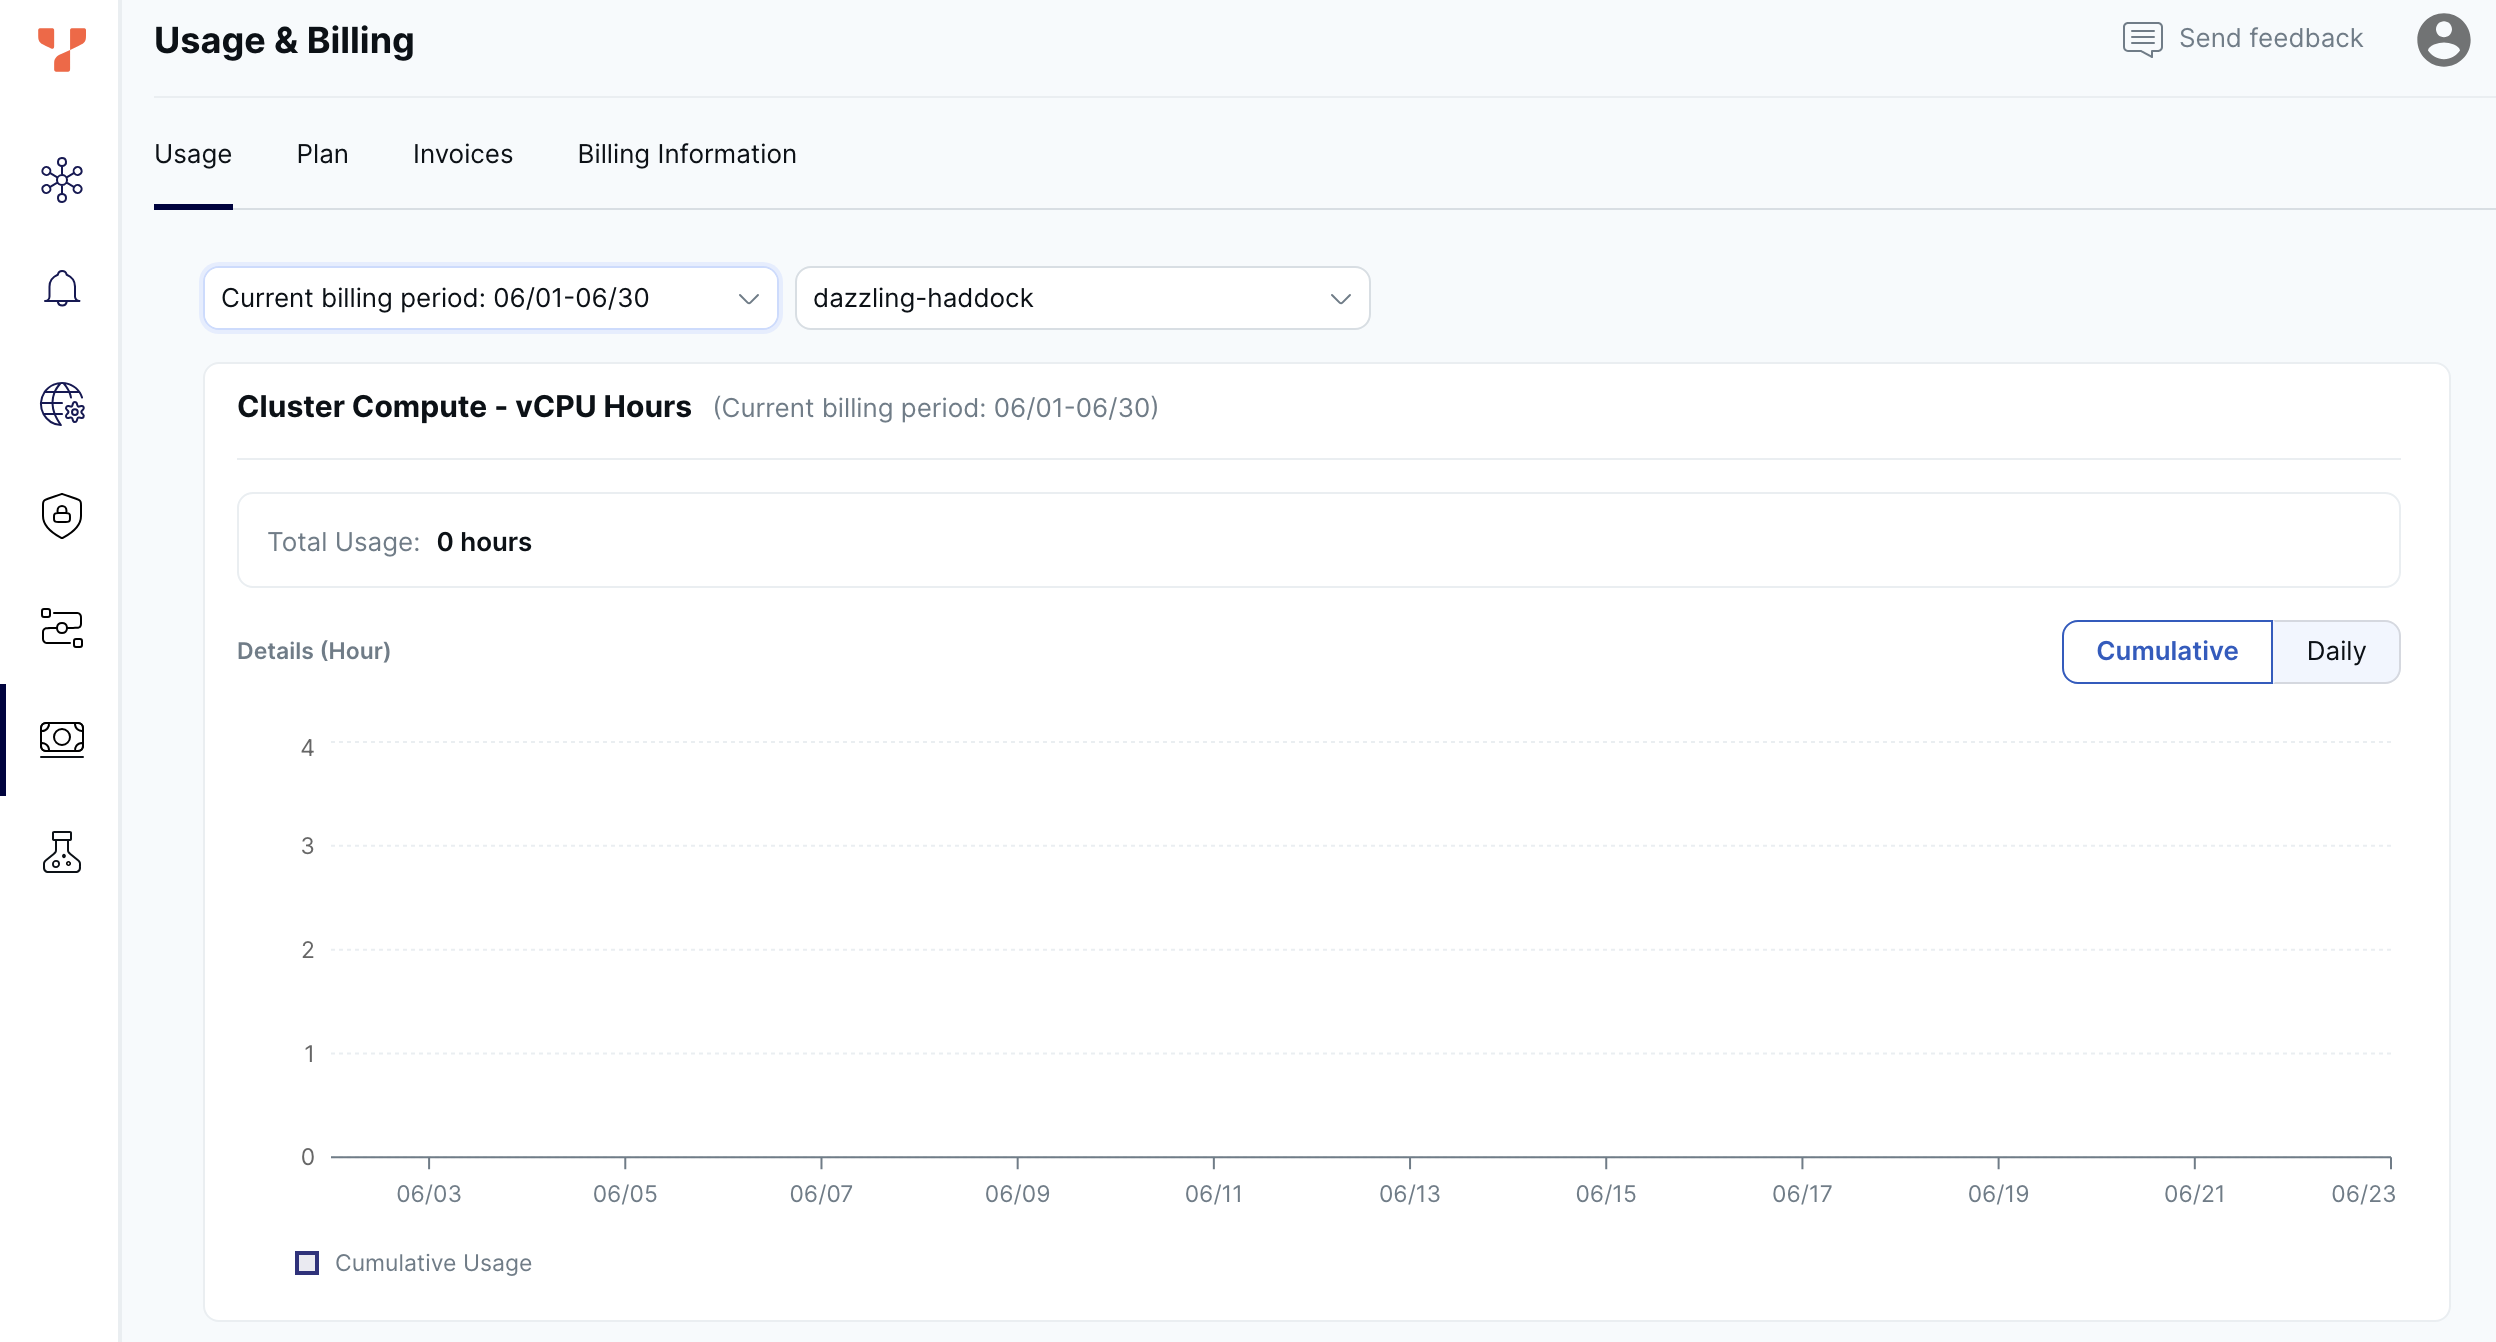
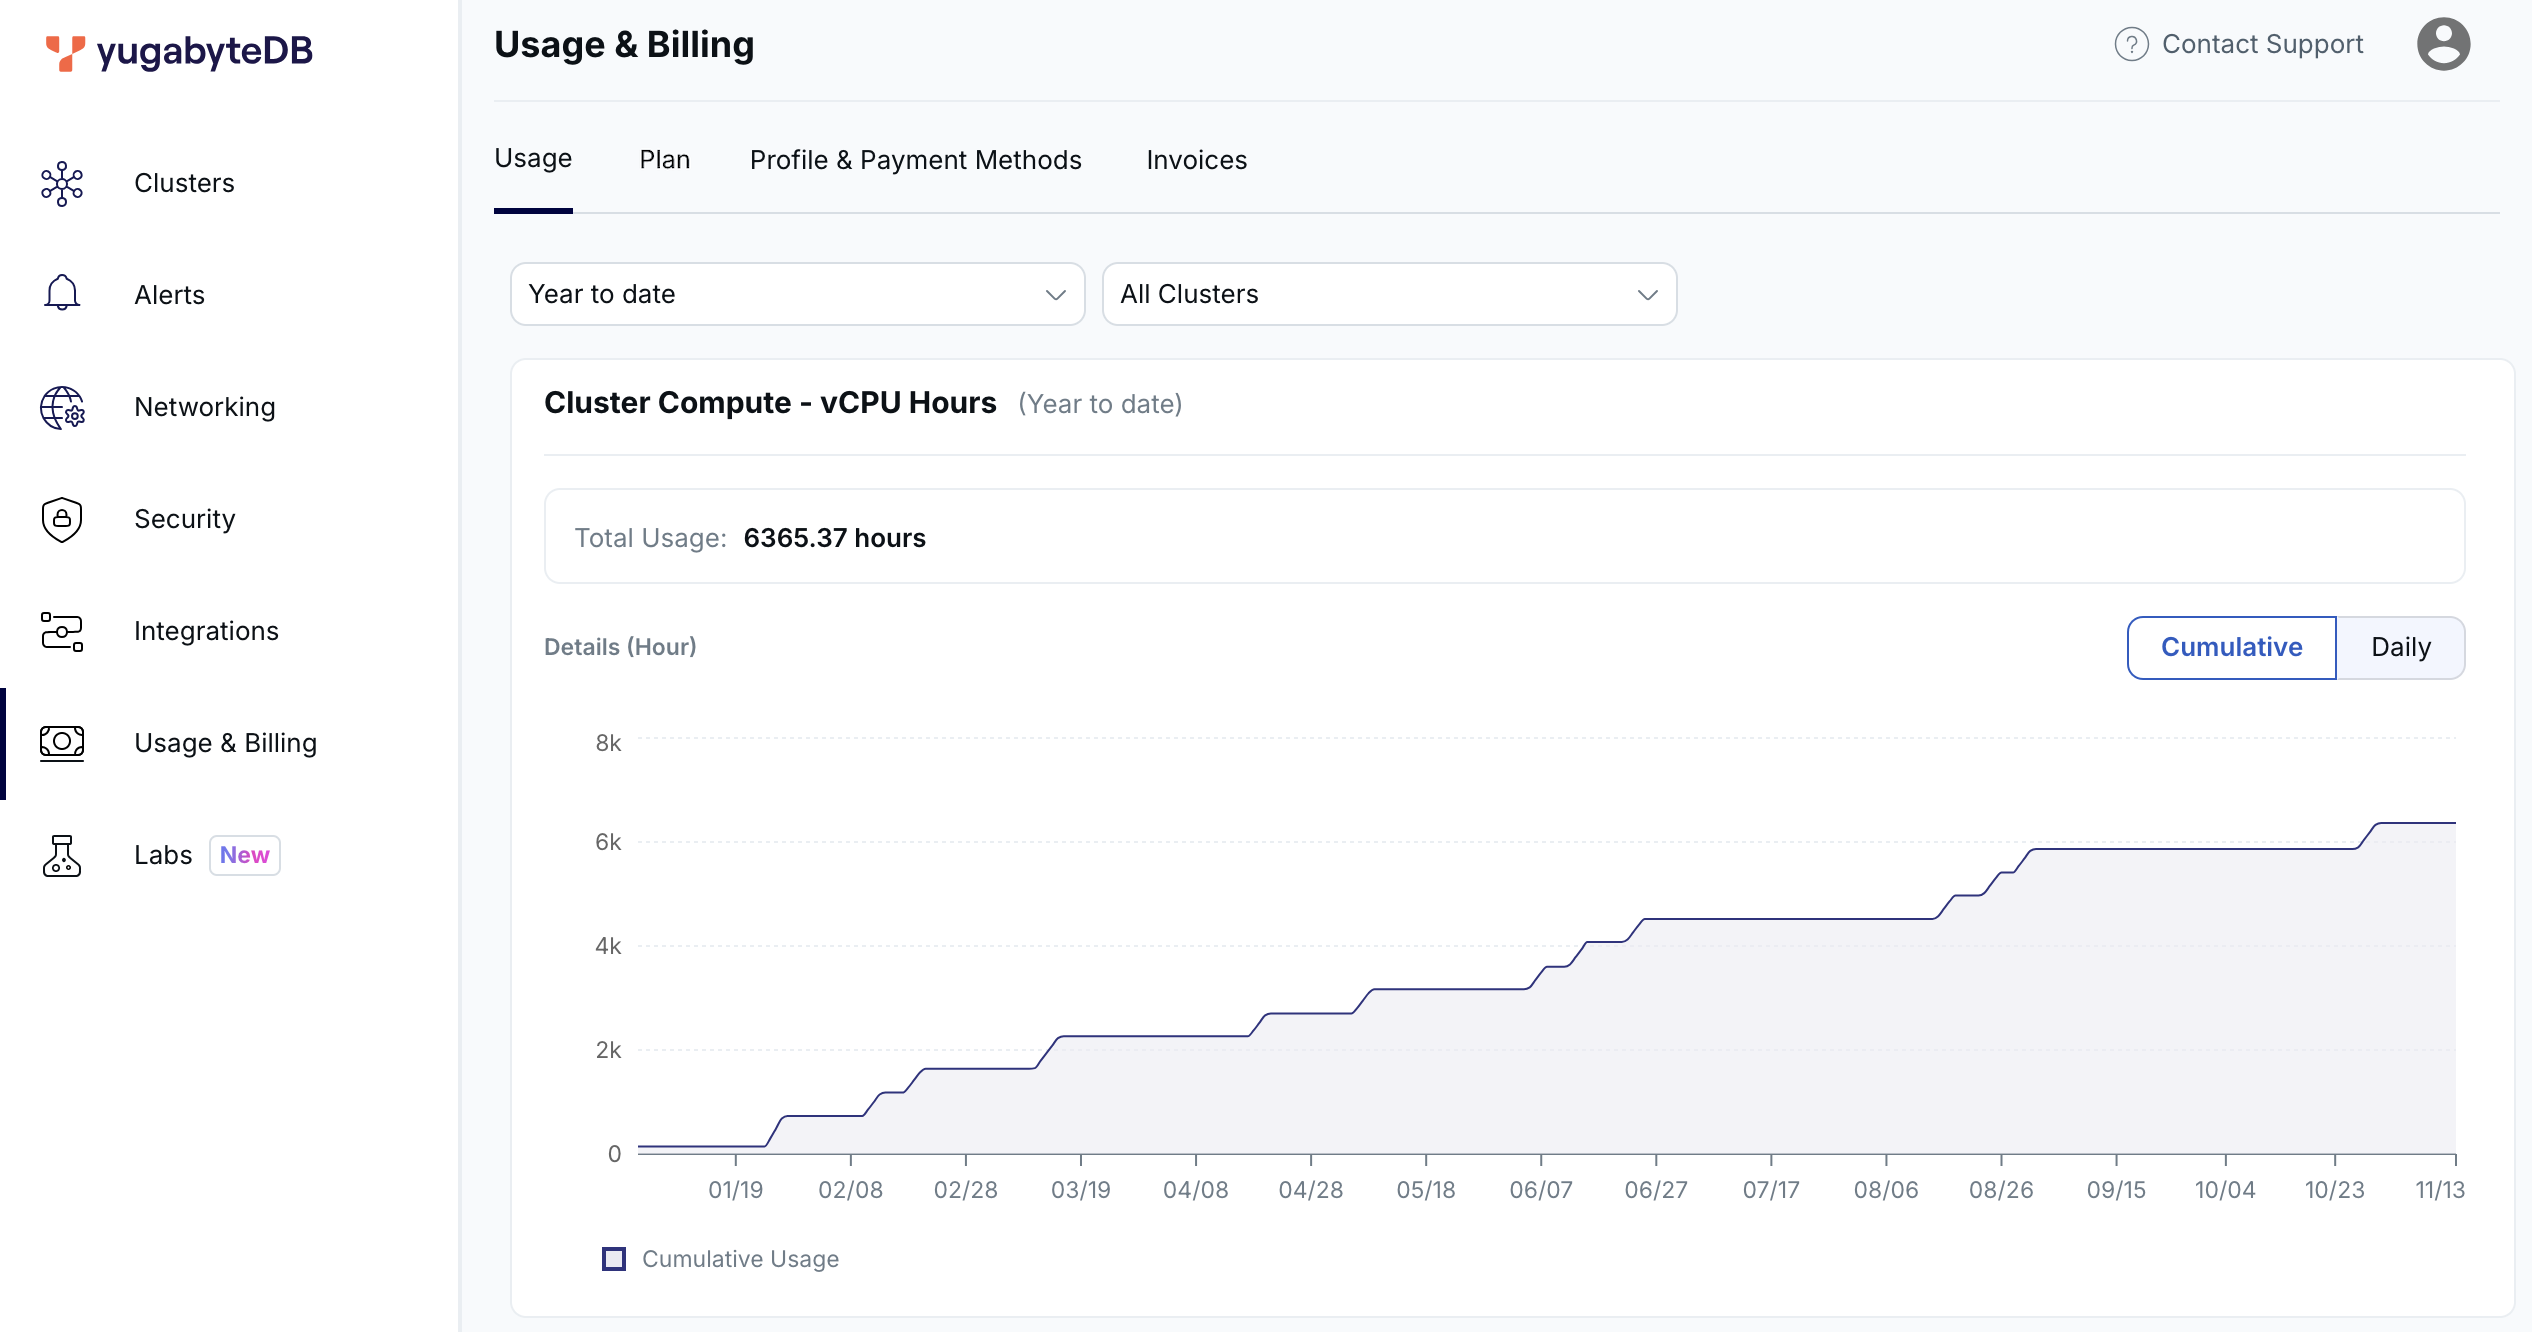
[doc][ybm][DOC-489] Changes to billing (#24337)
* Changes to billing

* review comment

* minor edits

* screenshot

* screenshot

diff --git a/docs/content/preview/yugabyte-cloud/cloud-admin/cloud-billing-profile.md b/docs/content/preview/yugabyte-cloud/cloud-admin/cloud-billing-profile.md
@@ -11,7 +11,7 @@ menu:
 type: docs
 ---
 
-Review your usage and charges, manage your plan, and manage your billing information using the **Usage & Billing** page.
+Review your usage and charges, manage your plan, and manage your billing information on the **Usage & Billing** page.
 
 Yugabyte bills for its services as follows:
 
@@ -25,23 +25,59 @@ For information on YugabyteDB Aeon plans and add-ons, refer to [YugabyteDB Prici
 
 ![Usage & Billing tab](/images/yb-cloud/cloud-admin-billing.png)
 
-The **Usage & Billing** page has the following tabs: **Usage**, **Plan**, **Invoices**, and **Billing Information**.
+The **Usage & Billing** page has the following tabs: **Usage**, **Plan**, **Profile & Payment Methods**, and **Invoices**.
 
 ## Usage
 
-Use this section to review your usage by cluster over time. You can view cumulative and daily usage of the following:
+Use this section to review your usage, per billing period, by cluster, over time. You can view cumulative and daily usage of the following:
 
-- cluster compute (vCPU hours)
-- disk storage
-- disk IOPS
-- cloud backup storage
-- data transfer
+- Cluster compute (vCPU hours)
+- Disk storage
+- Disk IOPS
+- Cloud backup storage
+- Data transfer
 
 ## Plan
 
-Use this section to subscribe to a plan, or review your plan details, including any add-ons.
+Use this section to subscribe to a plan, manage an existing plan (including adding add-ons), and review plan details.
 
-To make changes to your plan, contact {{% support-cloud %}}.
+To make changes to your plan, click **Manage Plan** or **Add to Plan**.
+
+You can subscribe to the Standard or Professional plan, upgrade a plan from Standard to Professional, or add add-ons. For other changes, contact {{% support-cloud %}}.
+
+## Profile & Payment Methods
+
+Use this section to manage your contact information and payment method. You can pay using a credit card, or other payment methods such as debit, ACH, and invoicing.
+
+Credit cards are self service. <!--For other payment methods, create your billing profile and set the **Billing Options** to **Other**; after you create your profile, contact {{% support-cloud %}} to set up payment.-->
+
+If you want to switch from paying by credit card to another method, contact {{% support-cloud %}}.
+
+### Add or edit your Billing Profile
+
+To add or change your billing profile:
+
+1. On the **Usage & Billing** page, select **Profile & Payment Methods** and click **Edit Billing Profile** to display the **Edit Billing Profile** sheet. If you haven't yet created a billing profile, click **Create Billing Profile**.
+1. Edit your contact information.
+1. If you are creating your billing profile, enter your credit card details. <!--For other payment methods, set the **Billing Options** to **Other**. You can only set the **Billing Options** if you are creating your profile.-->
+1. Click **Save**.
+
+### Manage credit cards
+
+To add a credit card:
+
+1. On the **Usage & Billing** page, select **Profile & Payment Methods** and click **Add Card** to display the **Add Credit Card** dialog.
+1. Enter your credit card details.
+1. To use the card as the default for payment, choose **Set as default credit card**.
+1. Click **Save**.
+
+To delete a card, click the **Delete** icon, then click **Confirm**. You cannot delete the default card.
+
+To change the default for payment, in the Card list, select the **Default Card** option for the card.
+
+### View credits and discounts
+
+The **Credits and Discounts** section displays any credits applied to your account, including the end date, days left, amount used, and amount remaining. Credits are automatically applied to the next invoice.
 
 ## Invoices
 
@@ -49,27 +85,24 @@ Your invoice is generated at the end of each month. The amount is charged automa
 
 **Invoices** lists your active and past invoices, along with a running total of usage for the current billing period. To review a specific invoice, select it in **Invoice History**.
 
-### Active Invoice
+### Active Invoice Summary
 
-Shows the billing details for the current billing cycle, including:
+Shows a summary for the current billing cycle, including:
 
 - Running total - running total of the amount you owe in the current billing period; Yugabyte updates this once a day.
-- Billing option - your billing plan (pay-as-you-go or subscription).
 - Billing period - the start and end date of the current billing period. Your first billing period starts the day you created your billing profile and ends on the last day of the month; subsequent periods start on the first day of the month and end on the last.
 - Previous invoice - the amount of the previous invoice.
-- Last billed on - the date of the previous invoice.
-- This time last month - the amount owing on the same day in the previous billing period (for example, if the current day is the 13th, this displays the amount that was owed on the 13th of last month).
 
-Click **Invoice Details** to view the invoice [Summary](#invoice-summary) for the active invoice.
+Click **Invoice Details** to view the [Summary](#invoice-summary) for the active invoice.
 
 ### Usage Breakdown
 
 Shows a breakdown of costs for the current billing cycle. YugabyteDB Aeon billing is based on your actual usage across the following dimensions:
 
-- vCPU Minutes
-- Disk Storage
 - Backup Storage
 - Data Transfer
+- vCPU Minutes
+- Disk Storage
 - Disk IOPS
 
 ### Invoice History
@@ -93,18 +126,18 @@ To download the invoice as a PDF, click the **Download** icon.
 
 ### Invoice summary
 
-To view invoice details, select an invoice in **Invoice History** to display its **Summary**.
+To view invoice details, select an invoice in **Invoice History**.
 
 To download the invoice as a PDF, click **Download Invoice**.
 
 **Summary** shows the following invoice details:
 
-- Total - the amount you owe in the billing period (or running total in the current billing period; Yugabyte updates the running total once a day).
-- Billing option - your billing plan (pay-as-you-go or subscription).
+- Plan, Price, and Billing option - your plan type and how you are charged (pay-as-you-go or subscription).
 - Billing period - the start and end date of the current billing period. Your first billing period starts the day you created your billing profile and ends on the last day of the month; subsequent periods start on the first day of the month and end on the last.
+- Total billable amount due - the amount you owe in the billing period net of remaining credits. For active invoices, Running total in the current billing period, which Yugabyte updates once a day.
 - Previous invoice - the amount of the previous invoice.
 - Last billed on - the date of the previous invoice.
-- This time last month - the amount owing on the same day in the previous billing period (for example, if the current day is the 13th, this displays the amount that was owed on the 13th of last month.
+- This time last month - the amount owing on the same day in the previous billing period (for example, if the current day is the 13th, this displays the amount that was owed on the 13th of last month).
 - Payment status - whether the invoice was paid.
 - Payment date - the date the invoice was paid.
 - Payment method - the payment method used to pay the invoice.
@@ -122,37 +155,3 @@ To download the invoice as a PDF, click **Download Invoice**.
 - Data transfer usage in GB, price, and amount.
 
 For information on how your invoice is costed, refer to [Cluster costs](../cloud-billing-costs/).
-
-## Billing Information
-
-Use this section to manage your contact information and payment method. You can pay using a credit card, or other payment methods such as debit, ACH, and invoicing.
-
-Credit cards are self service. <!--For other payment methods, create your billing profile and set the **Billing Options** to **Other**; after you create your profile, contact {{% support-cloud %}} to set up payment.-->
-
-If you want to switch from paying by credit card to another method, contact {{% support-cloud %}}.
-
-### Add or edit your Billing Profile
-
-To add or change your billing profile:
-
-1. On the **Usage & Billing** page, select **Billing Information** and click **Edit Billing Profile** to display the **Edit Billing Profile** sheet. If you haven't yet created a billing profile, click **Create Billing Profile**.
-1. Edit your contact information.
-1. If you are creating your billing profile, enter your credit card details. <!--For other payment methods, set the **Billing Options** to **Other**. You can only set the **Billing Options** if you are creating your profile.-->
-1. Click **Save**.
-
-### Manage credit cards
-
-To add a credit card:
-
-1. On the **Usage & Billing** page, select **Billing Information** and click **Add Card** to display the **Add Credit Card** dialog.
-1. Enter your credit card details.
-1. To use the card as the default for payment, choose **Set as default credit card**.
-1. Click **Save**.
-
-To delete a card, click the **Delete** icon, then click **Confirm**. You cannot delete the default card.
-
-To change the default for payment, in the Card list, select the **Default Card** option for the card.
-
-### View credits and discounts
-
-The **Credits and Discounts** section displays any credits applied to your account, including the end date, days left, amount used, and amount remaining. Credits are automatically applied to the next invoice.
